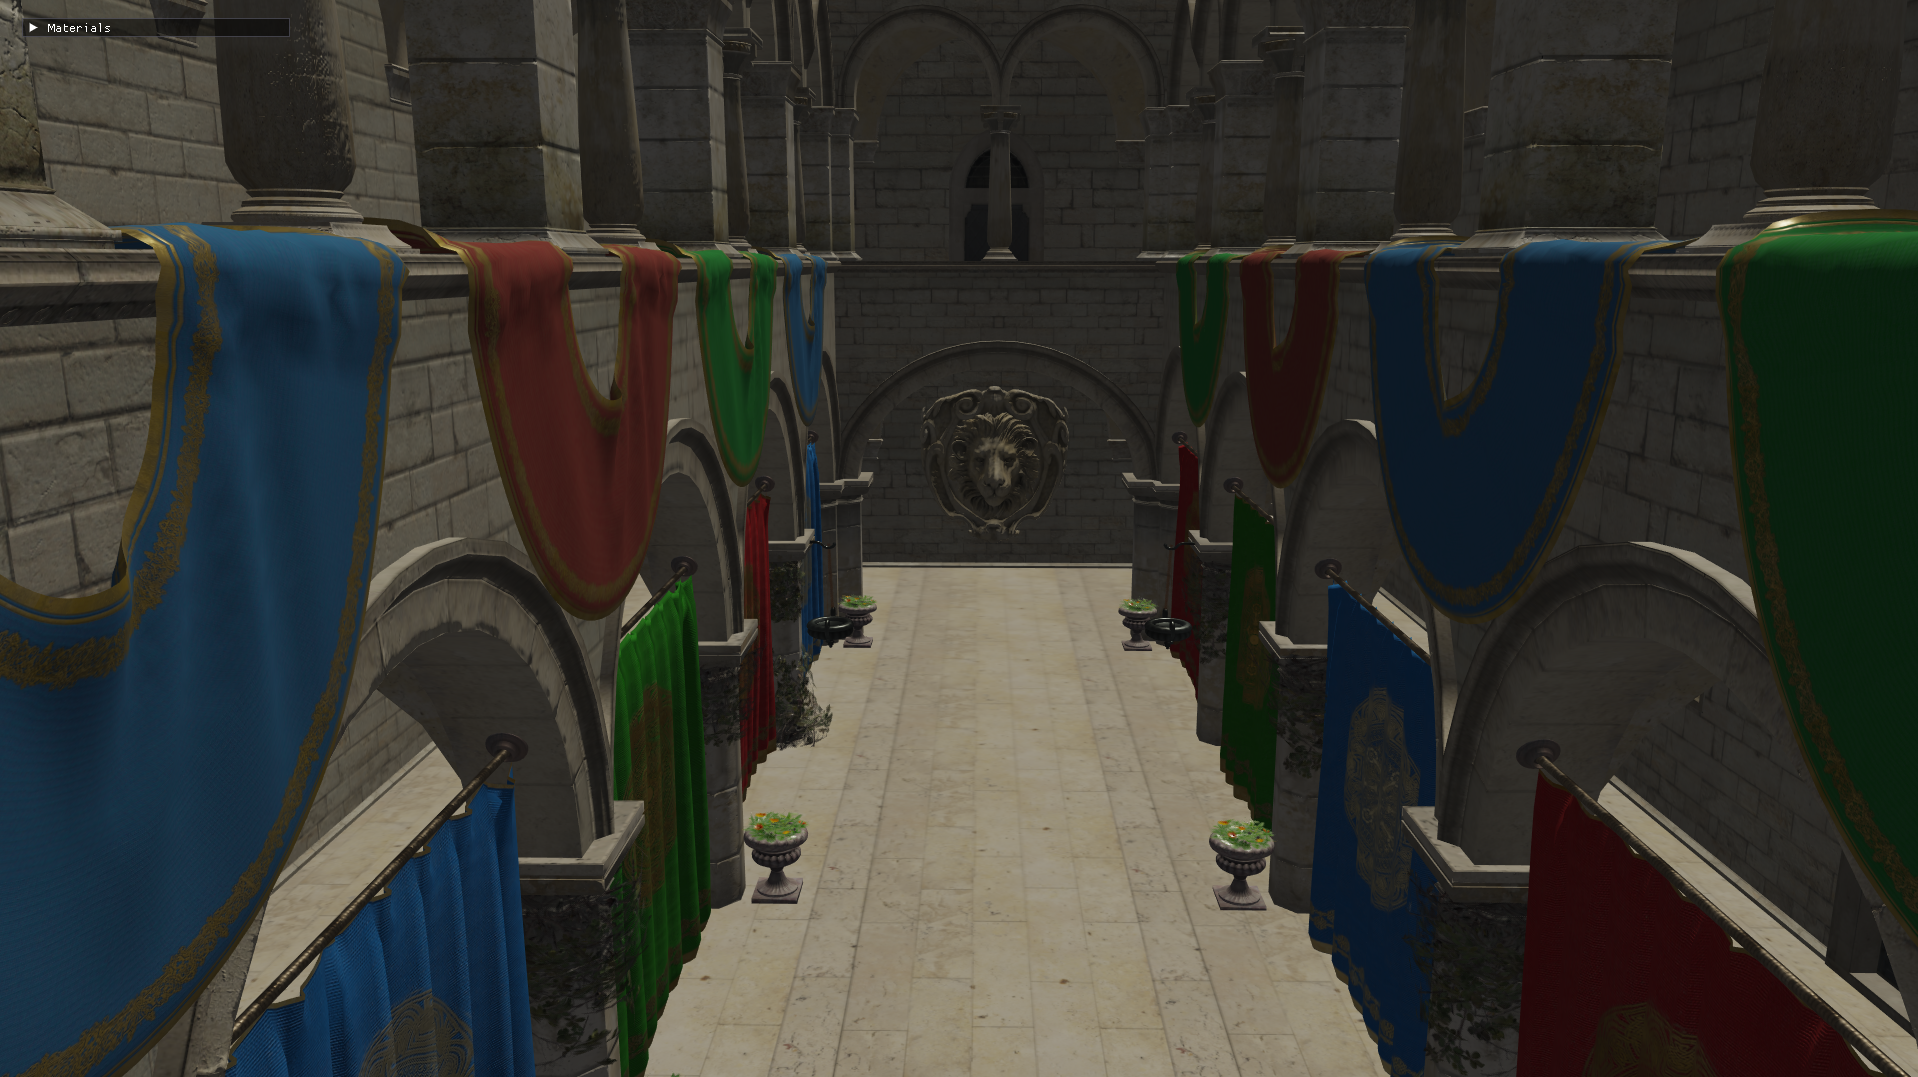
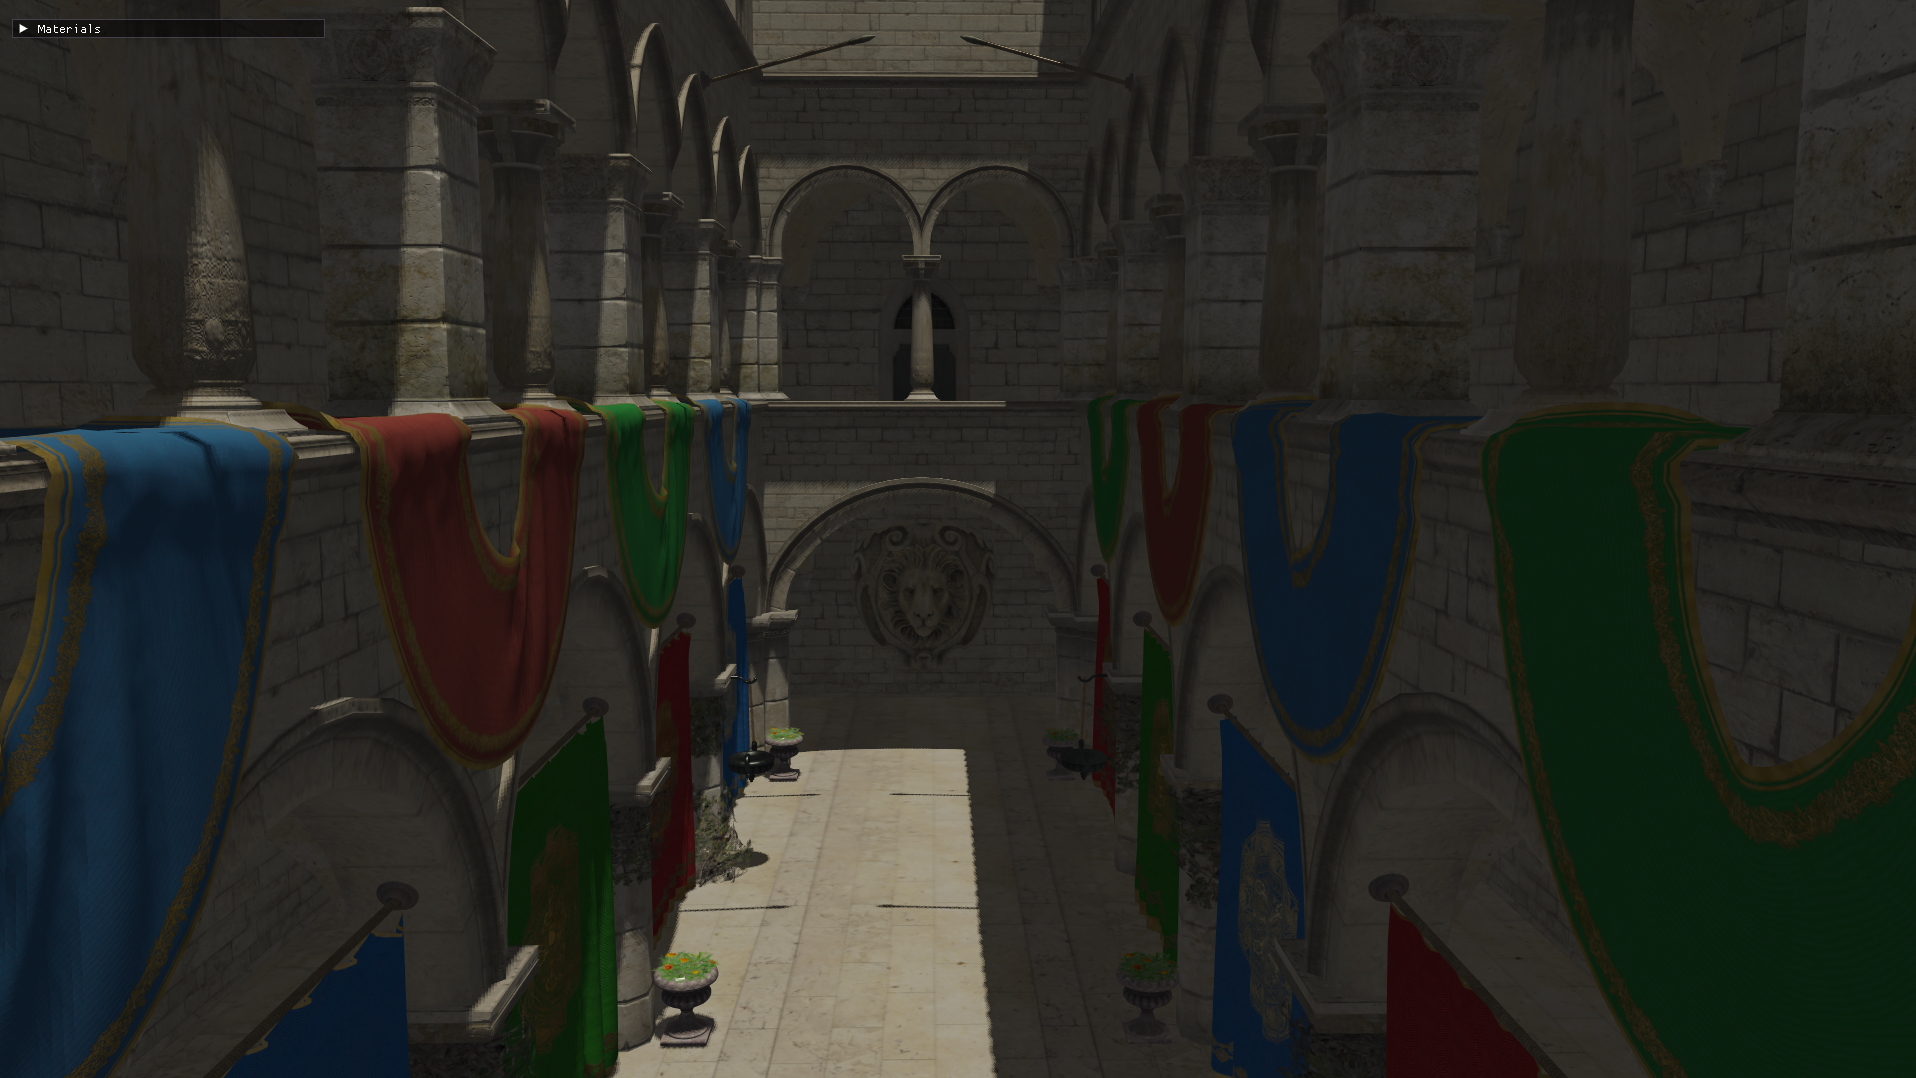
Updated README

diff --git a/src/main.cpp b/src/main.cpp
@@ -38,13 +38,13 @@ int main()
     }
 
     // MODELS
-    /*Sphere* sphere = scene->add_sphere("sphere1");
+    Sphere* sphere = scene->add_sphere("sphere1");
     if (sphere)
     {
         sphere->set_material(phong_material);
         sphere->set_position(glm::vec3(0.0f, 1.0f, 0.0f));
         sphere->set_scale(glm::vec3(0.5f, 0.5f, 0.5f));
-    }*/
+    }
 
     Model* sponza = scene->add_model("sponza", static_cast<std::string>(MODELS_DIR) + "Sponza/glTF/Sponza.gltf");
     if (sponza)
@@ -60,22 +60,22 @@ int main()
     //}
 
     // LIGHTS
-    DirectionalLight* sun = scene->add_directional_light(
-        "sun",
-        glm::vec3(0.3f, -1.0f, -0.1f),  // Direction
-        glm::vec3(1.0f, 0.95f, 0.8f),   // Warmer color
-        1.5f                            // Intensity
-    );
-    sun->set_shadows_enabled(true);
+    //DirectionalLight* sun = scene->add_directional_light(
+    //    "sun",
+    //    glm::vec3(0.3f, -1.0f, -0.1f),  // Direction
+    //    glm::vec3(1.0f, 0.95f, 0.8f),   // Warmer color
+    //    1.5f                            // Intensity
+    //);
+    //sun->set_shadows_enabled(true);
 
-    /*PointLight* point1 = scene->add_point_light(
+    PointLight* point1 = scene->add_point_light(
         "point1",
         glm::vec3(5.0f, 5.0f, 0.0f),
         glm::vec3(1.0f),
         1.0f
     );
     point1->set_attenuation(1.0f, 0.09f, 0.032f);
-    point1->set_shadows_enabled(true);*/
+    point1->set_shadows_enabled(true);
 
     /*PointLight* point2 = scene->add_point_light(
         "point2",

diff --git a/README.md b/README.md
@@ -8,27 +8,29 @@ It’s designed for experiments and real-time graphics research.
 - **Forward Pipeline**
   - At the moment only a simple forward pass has been implemented
   
-- **Models Import**
+- **Models Importation**
   - Support for loading any model supported by Assimp library.
 
 - **Anti-Aliasing**
   - Configurable MSAA
 
-- **Lighting**
-  - Directional Lights
-  - Point Lights
-  - No shadows yet
+- **Lighting & Shadows**
+  - Directional Lights with Shadow Mapping
+  - Point Lights with Shadow Mapping (Cubemaps and Geometry shader)
+  - Support for multiple lights
 
 - **Materials**
   - Lambert Materials
   - Phong Materials
-  - PBR Materials
+  - PBR Materials (Metallic-Roughness)
 
-- **PBR (Metallic-Roughness)**
+- **Built-in Models**
+  - Sphere
 
 ## Screenshots
 
 ![Screenshot](resources/screenshots/screenshot.png)
+![Screenshot](resources/screenshots/screenshot4.png)
 ![Screenshot](resources/screenshots/screenshot2.png)
 ![Screenshot](resources/screenshots/screenshot3.png)
 
